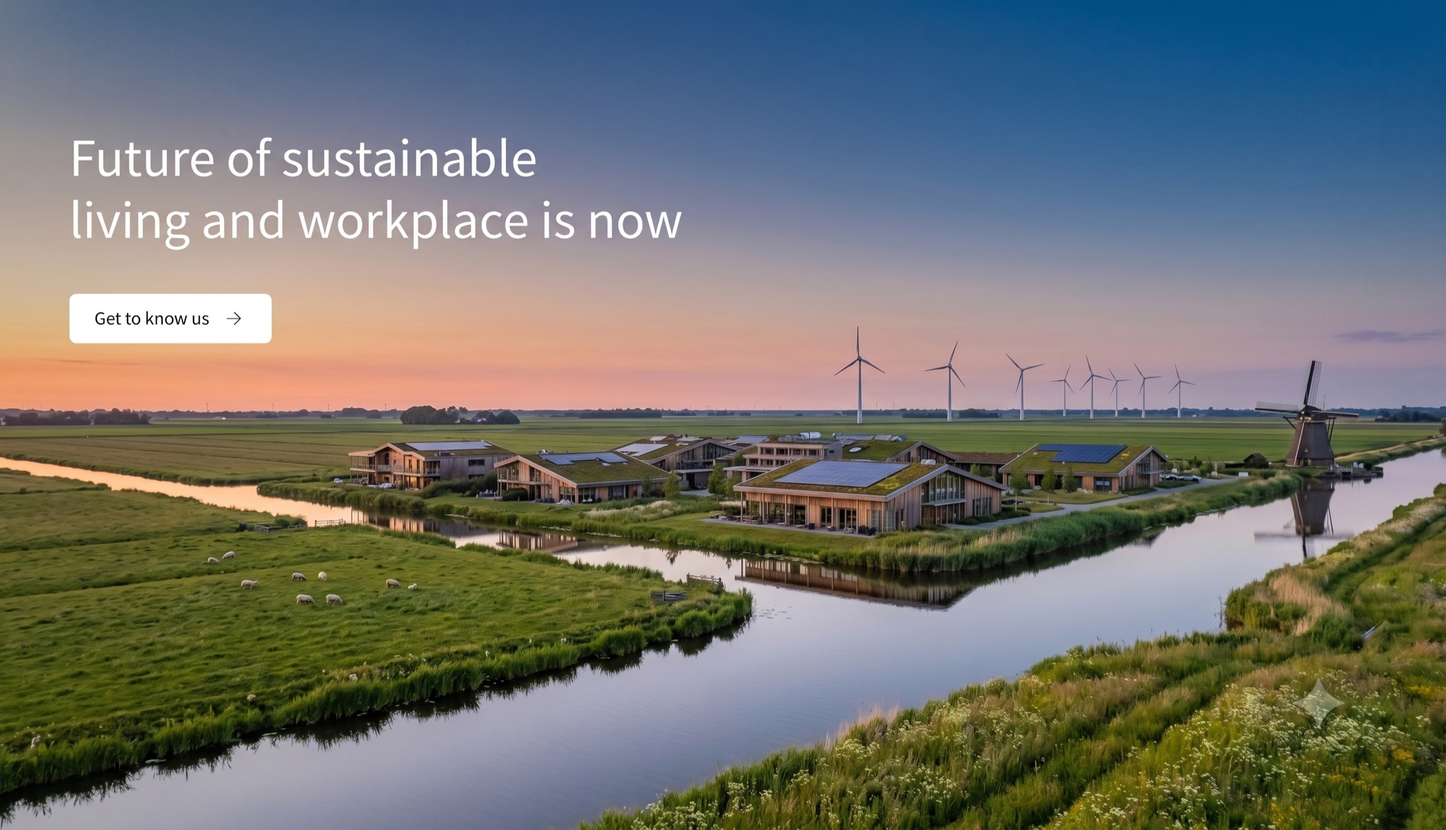
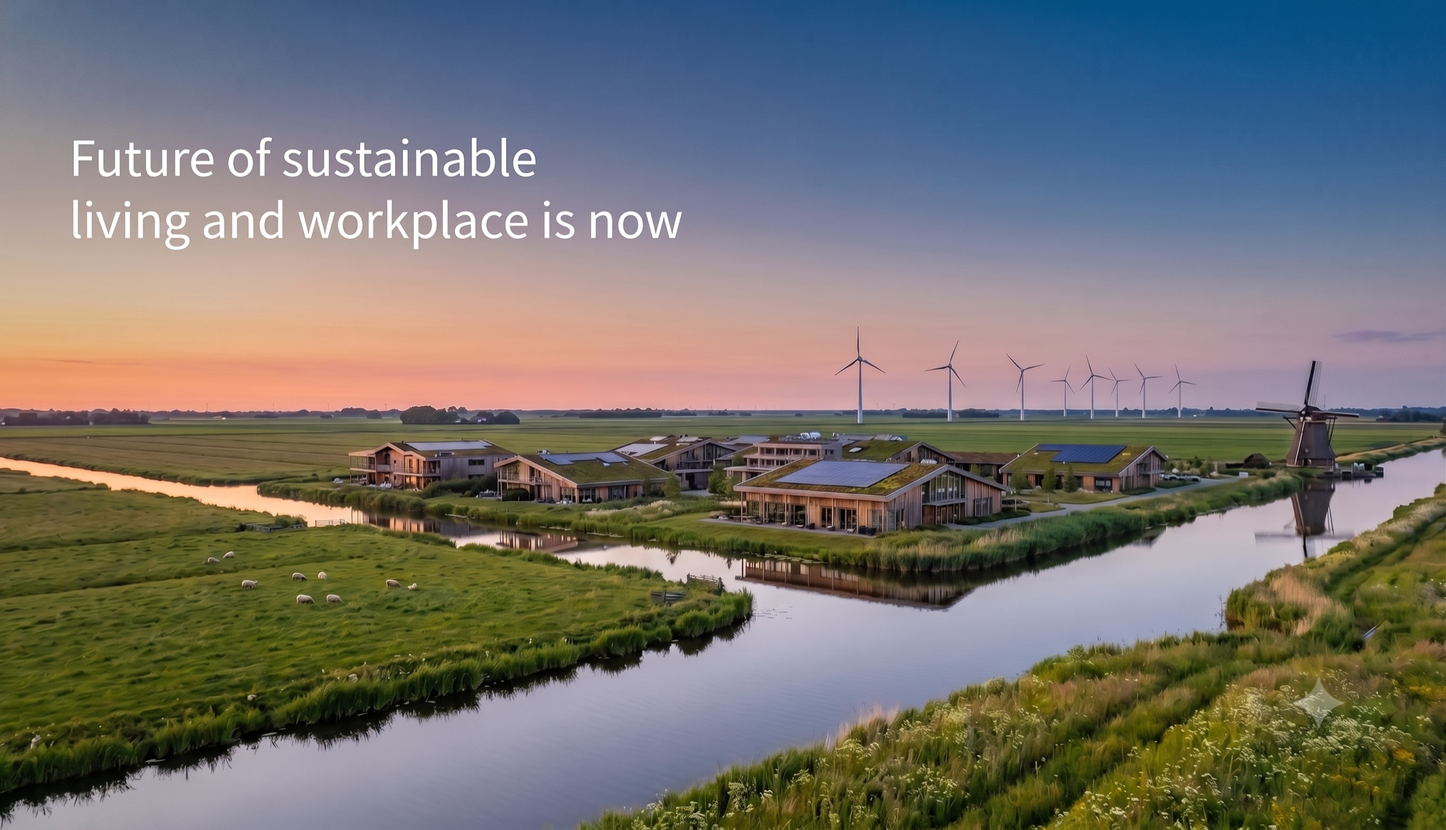
Swap in the button-free hero artwork and close the blank space on desktop
- Hero image replaced with the 18 Sept version (fake "Get to know us"
  button removed; headline still burned in)
- Hero text split into two columns — headline left, lead/CTAs/microcopy
  right — instead of one narrow column under a full-width banner
- Hero banner back to 21/9 on desktop now the button is gone; the crop
  takes ~13% off top and bottom and clears the headline. Mobile stays
  16/9, where 21/9 would be a sliver
- Tax section split into heading and body columns, so it fills the dark
  band instead of leaving the right half empty

Desktop hero section is ~300px shorter, putting the next section nearer
the fold.

diff --git a/src/data/images.ts b/src/data/images.ts
@@ -88,10 +88,11 @@ export const images: Record<string, ImageSlot> = {
 
   // public/images/property/vastgoedbeheer-nederland-landschap.jpg — 16:9 —
   // Supplied banner: aerial of a sustainable Dutch development at dusk.
-  // NOTE: the supplied file has a headline and a "Get to know us" button
-  // burned into the pixels. The alt text repeats that wording because it
-  // is an image of text (WCAG 1.4.5) — if the text is ever removed from
-  // the artwork, shorten the alt to describe the scene only.
+  // NOTE: the supplied file still has a headline burned into the pixels
+  // (the fake "Get to know us" button was removed in the 18 Sept version).
+  // The alt text repeats that wording because it is an image of text
+  // (WCAG 1.4.5) — if the headline is removed from the artwork too,
+  // shorten the alt to describe the scene only.
   heroPortfolio: {
     src: '/images/property/vastgoedbeheer-nederland-landschap.jpg',
     alt: 'Aerial view at dusk of a sustainable Dutch development beside a canal, with wind turbines and a windmill on the horizon. Overlaid text reads: Future of sustainable living and workplace is now.',
